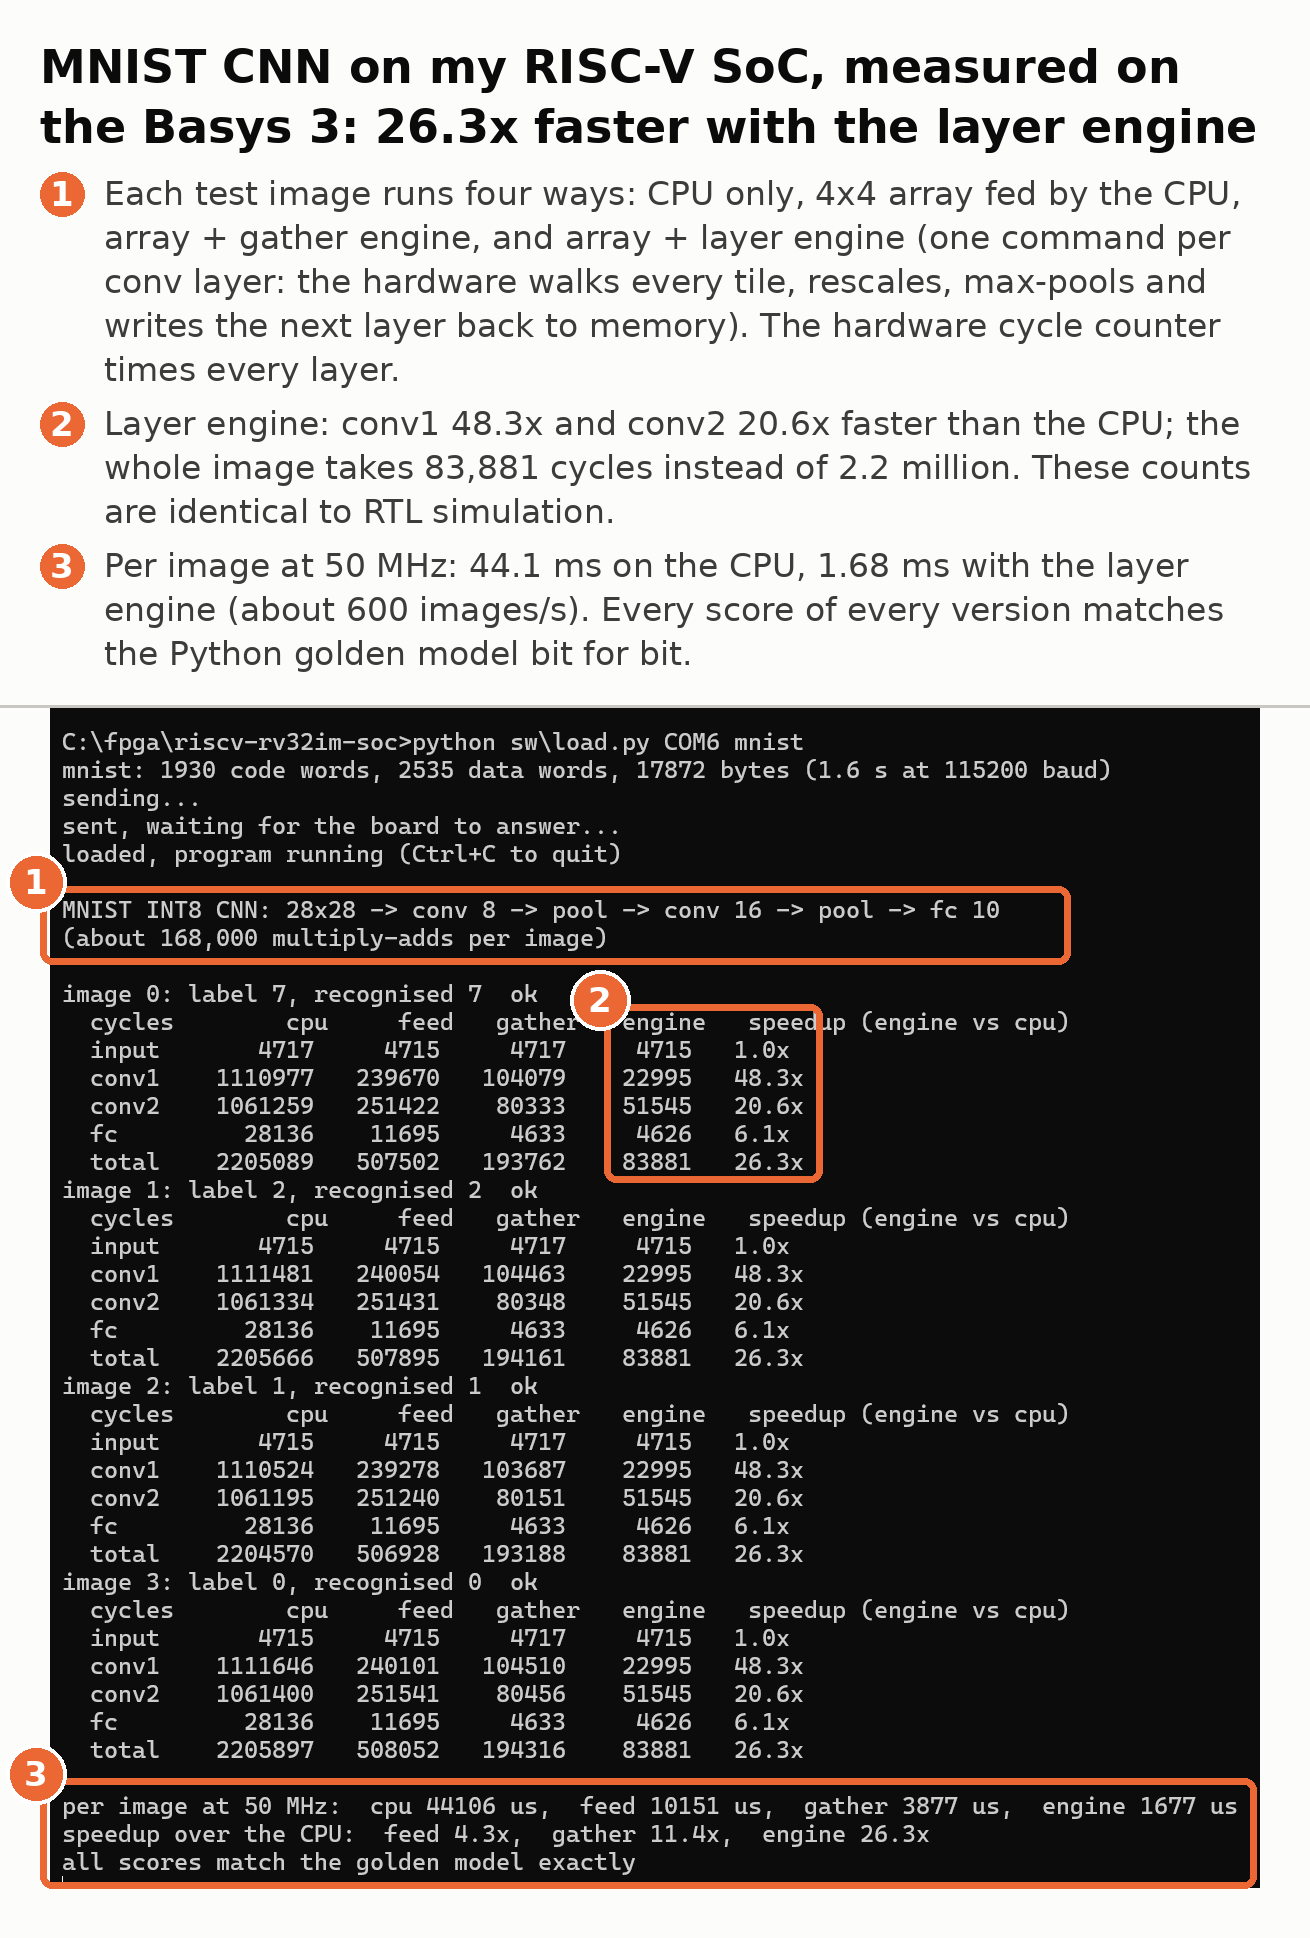
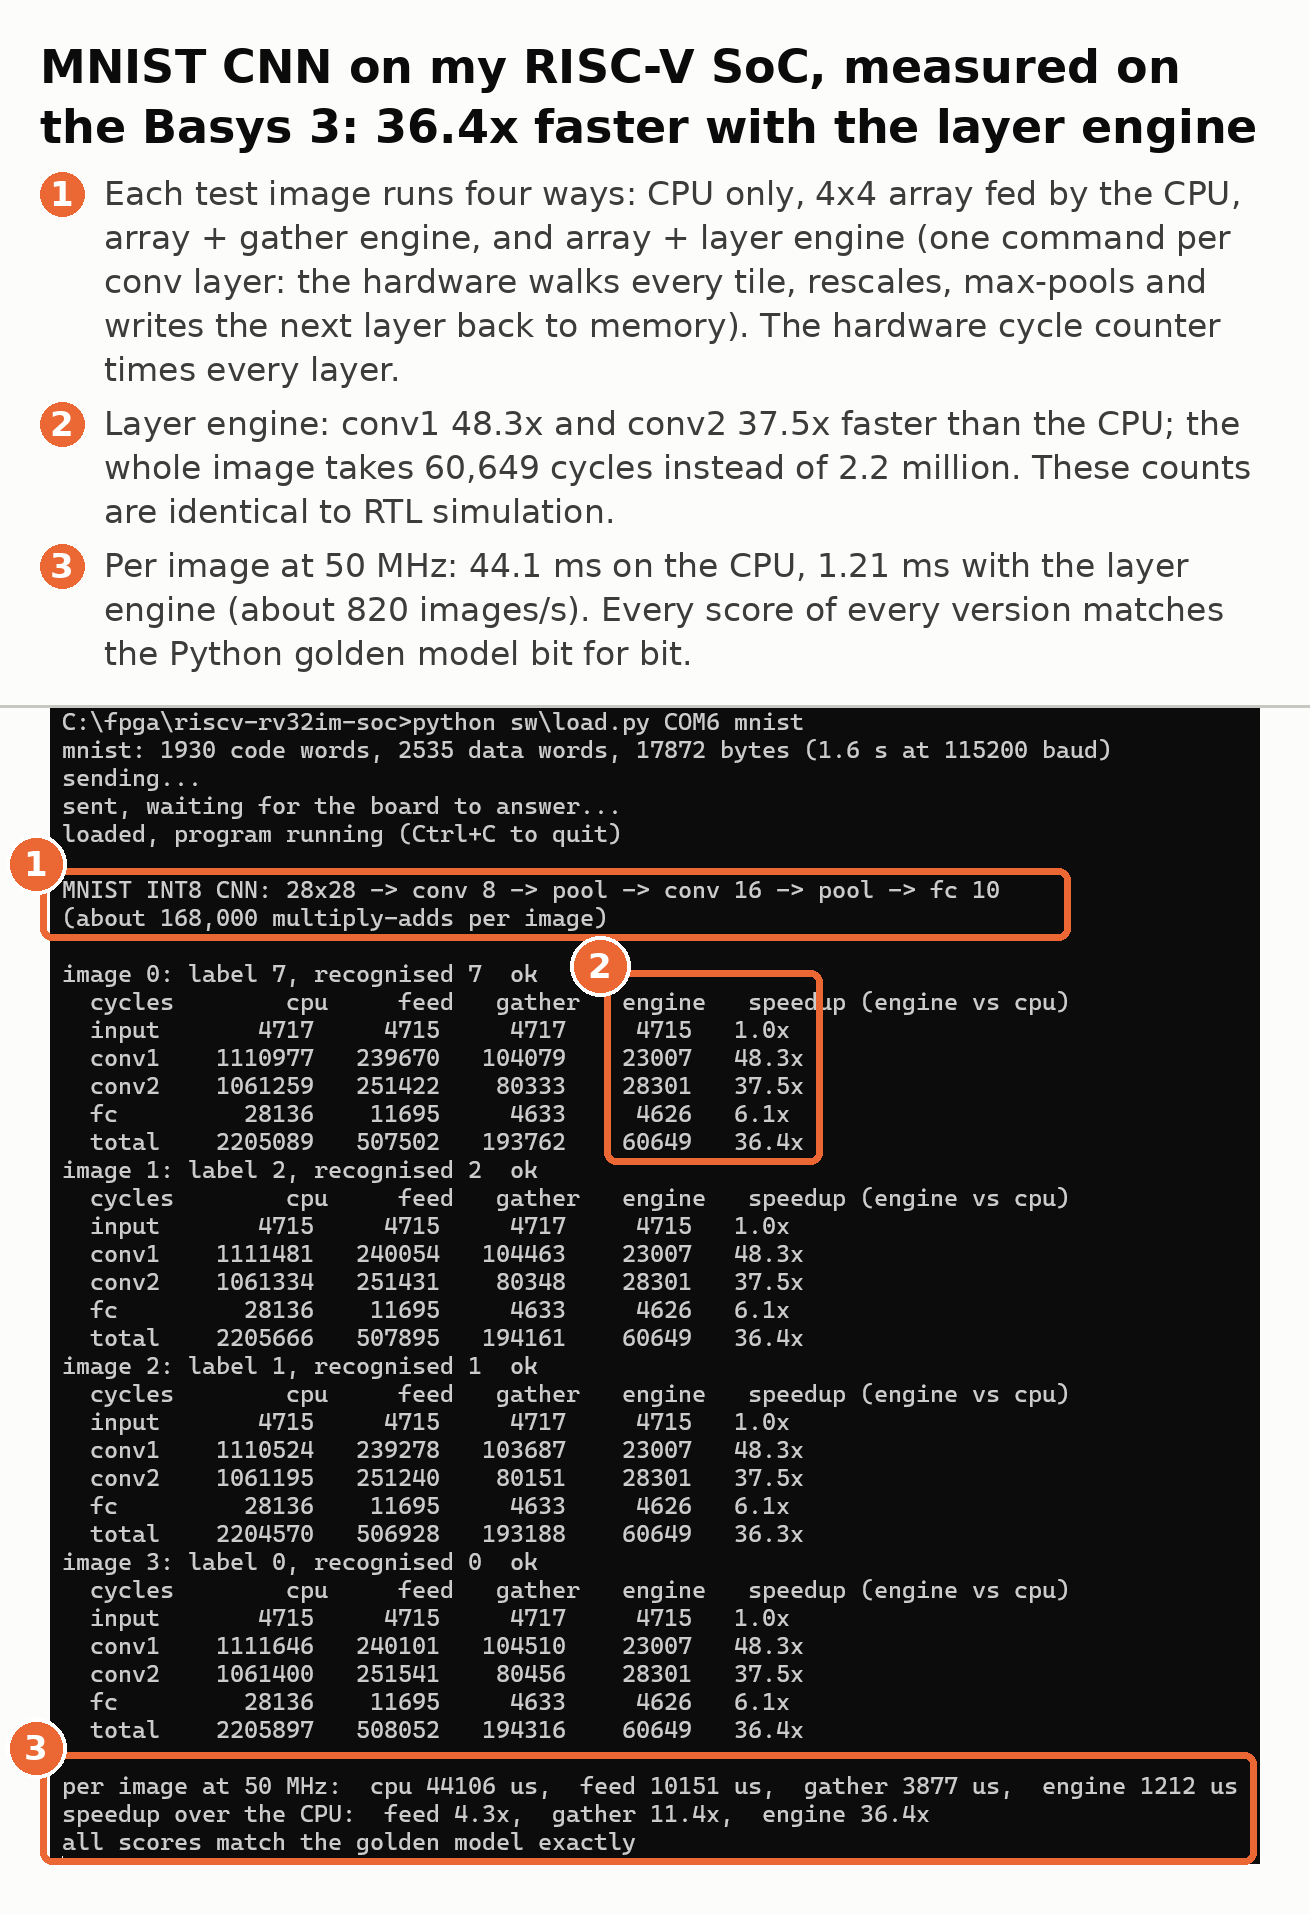
README: 128-step buffers measured on the Basys 3 (36.4x, 1.21 ms per image)
Board cycle counts match RTL simulation; every score matches the golden model.
Updated the results table, the annotated board screenshot, the speedup chart
and the data-flow diagram; added step 5, the new profile and the bug the wider
layer test found.

diff --git a/README.md b/README.md
@@ -12,7 +12,7 @@ UART console and a UART program loader, so new programs load in under a second w
 rebuilding the bitstream.
 
 Runs a **handwritten-digit recognition neural network** (INT8 CNN, 98.74 % on MNIST) on its own
-**systolic-array accelerator with a hardware layer engine**: **26.3x faster** than the CPU
+**systolic-array accelerator with a hardware layer engine**: **36.4x faster** than the CPU
 alone, measured on the board, with every output bit-identical to a Python golden model.
 
 Hardened into a **SkyWater 130 nm layout** (RTL to GDSII with LibreLane), and verified with two **UVM** environments on Cadence Xcelium (constrained-random programs checked
@@ -24,7 +24,7 @@ IMC), with planted bugs to prove the testbenches catch real failures.
 <table>
 <tr>
 <td width="50%"><img src="docs/images/nn/basys3_mnist_uart.png" alt="MNIST on the board"><br><b>A neural network on my CPU, measured on the Basys 3:</b> a small INT8 CNN recognises MNIST digits four ways: CPU only, accelerator fed by the CPU, with its gather engine, and with its layer engine. The hardware cycle counter times every layer; the board numbers are identical to RTL simulation and every score matches the Python golden model. <a href="#neural-network-on-the-soc-mnist">Details</a></td>
-<td width="50%"><img src="docs/images/nn/mnist_speedup.png" alt="speedup"><br><b>26.3x faster inference:</b> 44.1 ms per image on the CPU, 1.68 ms with the accelerator (about 600 images/s at 50 MHz). The first accelerator version was only 4.3x because the CPU spent its time moving data; each step after that came from measuring where the cycles went (gather engine 11.4x, layer engine 26.3x).</td>
+<td width="50%"><img src="docs/images/nn/mnist_speedup.png" alt="speedup"><br><b>36.4x faster inference:</b> 44.1 ms per image on the CPU, 1.21 ms with the accelerator (about 820 images/s at 50 MHz). The first accelerator version was only 4.3x because the CPU spent its time moving data; each step after that came from measuring where the cycles went (gather engine 11.4x, layer engine 26.3x, deeper operand buffers 36.4x).</td>
 </tr>
 <tr>
 <td colspan="2"><img src="docs/images/nn/accelerator_dataflow.png" alt="accelerator data flow"><br><b>What I built for it:</b> a layer engine that runs a whole convolution layer from one command: it drives a gather engine that reads image patches and weights straight from data memory through the block RAM's second port (convolution turned into matrix multiplication, "im2col", in hardware), an output stage that adds the bias, rescales to 8 bits and applies ReLU, and a 2x2 max pool that writes the next layer's input back to memory. The CPU sends one command per layer and waits.</td>
@@ -64,7 +64,7 @@ IMC), with planted bugs to prove the testbenches catch real failures.
 | FPGA | Basys 3 (Artix-7 XC7A35T): MMCM clocking, UART console, 7-segment display, LEDs, switches, buttons |
 | Program loader | hardware UART loader with checksum: `python sw/load.py COM5 bench` |
 | Accelerator | 4x4 INT8 systolic array (16 MACs/cycle) with a **layer engine** (one command per conv layer, 2x2 max pool in hardware), a **gather engine** (reads its own operands from data memory: im2col in hardware) and an **output stage** (bias, rescale, ReLU in hardware). 10.5x faster 32x32 matmul |
-| Neural network | INT8 CNN for MNIST (98.74 %), trained in NumPy, bit-exact C on the SoC: **26.3x** faster than the CPU on the board ([details](#neural-network-on-the-soc-mnist)) |
+| Neural network | INT8 CNN for MNIST (98.74 %), trained in NumPy, bit-exact C on the SoC: **36.4x** faster than the CPU on the board ([details](#neural-network-on-the-soc-mnist)) |
 | ASIC | Hardened on SkyWater 130 nm with LibreLane: 0.52 mm², DRC/LVS clean, timing closed at 20 MHz in all corners ([details](asic/riscv_cpu/README.md)) |
 | Verification | UVM on Xcelium + IMC: 48/48 riscv-tests in UVM, 17/17 regression tests pass, 100% functional coverage, SVA, bug injection |
 
@@ -158,11 +158,11 @@ hardware counter; identical to RTL simulation):
 
 | Layer | CPU only | Array fed by the CPU | + gather engine | + layer engine | Speedup |
 |---|---|---|---|---|---|
-| conv1 | 1,110,977 | 239,670 | 104,079 | **22,995** | 48.3x |
-| conv2 | 1,061,259 | 251,422 | 80,333 | **51,545** | 20.6x |
+| conv1 | 1,110,977 | 239,670 | 104,079 | **23,007** | 48.3x |
+| conv2 | 1,061,259 | 251,422 | 80,333 | **28,301** | 37.5x |
 | fully connected | 28,136 | 11,695 | 4,633 | **4,626** | 6.1x |
-| **Total** | **2,205,089** | 507,502 (4.3x) | 193,762 (11.4x) | **83,881 (26.3x)** | |
-| Per image at 50 MHz | 44.1 ms | 10.2 ms | 3.9 ms | **1.68 ms (about 600 images/s)** | |
+| **Total** | **2,205,089** | 507,502 (4.3x) | 193,762 (11.4x) | **60,649 (36.4x)** | |
+| Per image at 50 MHz | 44.1 ms | 10.2 ms | 3.9 ms | **1.21 ms (about 820 images/s)** | |
 
 **How the speedup was found, step by step:**
 
@@ -182,9 +182,16 @@ hardware counter; identical to RTL simulation):
    the gathers, keeps two output rows in a small buffer, max-pools them and writes the pooled
    INT8 values straight back to data memory, which is the next layer's input.
 
-Where the remaining time goes (layer engine): about 62 % fetching operands, 21 % computing in the
-array, 17 % bookkeeping. conv2's 3x3x8 patch (72 steps) does not fit the 64-step operand
-buffers, so each patch is fetched once per group of 4 filters; bigger buffers are the next step.
+5. **128-step operand buffers (36.4x):** profiling the layer engine showed 62 % of its time
+   went on fetching operands. conv2's 3x3x8 patch is 72 steps, more than the 64-step buffers
+   held, so it ran in two pieces and every patch was fetched again for each group of 4 filters.
+   With 128-step buffers the whole patch runs in one piece and is fetched once for all filter
+   groups: conv2 went from 51,545 to 28,301 cycles.
+
+Where the remaining time goes (while the layer engine works): conv1 37 % fetching, 24 %
+computing, 39 % bookkeeping (mostly reloading bias and scale for every tile); conv2 57 %
+fetching, 33 % computing, 10 % bookkeeping. Next: bias and scale for all filters kept on chip,
+then double buffering (fetch the next tile while the array computes).
 
 **Verification:**
 
@@ -194,8 +201,13 @@ buffers, so each patch is fetched once per group of 4 filters; bigger buffers ar
   engine are all caught; one was missed at first, which led to a new test case.
 - **Layer engine:** `sw/programs/conv_test` runs 24 convolution layers with random shapes
   (1 to 21 channels, 4 to 16 filters, rows up to 32 pixels, odd sizes, partial tiles) and random
-  data through the engine and checks every output byte against plain C. All 24 pass; a planted
-  bug in the pooling compare fails 23 of them, a scale off by one fails 3.
+  data through the engine and checks every output byte against plain C, plus fixed cases: one
+  126-step run (C = 14), three pieces of 126 steps (C = 42) and a single output column. All 24
+  pass; a planted bug in the pooling compare fails 23 of them, a scale off by one fails 3. Widening
+  this test found a real bug: with one output column and 4 filters, pooling read the last result
+  one cycle before it was written (fixed with a wait state; MNIST never used that shape).
+- **Buffers:** the accelerator unit test gathers up to the full 128 steps; dropping the top bit of
+  the buffer index makes it fail 2,880 checks.
 - **Software:** all four C versions match the golden model on all 10,000 test images (on the
   PC, with a software model of the accelerator) and on the RTL and the board.
 - The full regression (riscv-tests, random programs, board tests, e-Yantra) still passes.
@@ -372,11 +384,12 @@ Done:
 - [x] Accelerator output stage (bias, rescale, ReLU) and gather engine (im2col in hardware):
       11.4x faster CNN inference, measured on the board
 - [x] Layer engine (one command per conv layer, max pool in hardware): 26.3x, measured on the board
+- [x] 128-step operand buffers (each conv2 patch fetched once): 36.4x, measured on the board
 
 Next, in order:
 
-- [ ] **Faster accelerator:** 128-step operand buffers (fetch each conv2 patch once), double
-      buffering (fetch the next tile while the array runs), then an 8x8 array on DSP slices
+- [ ] **Faster accelerator:** bias and scale of all filters on chip, double buffering (fetch the
+      next tile while the array runs), then an 8x8 array on DSP slices
 - [ ] **TFT display (2.4" SPI, tested on the board):** SPI controller on the memory map, C driver
 - [ ] **Live demo:** draw a digit with a USB mouse (or touch, once a touch controller is fitted),
       the board recognises it and shows CPU vs accelerator time on the display
